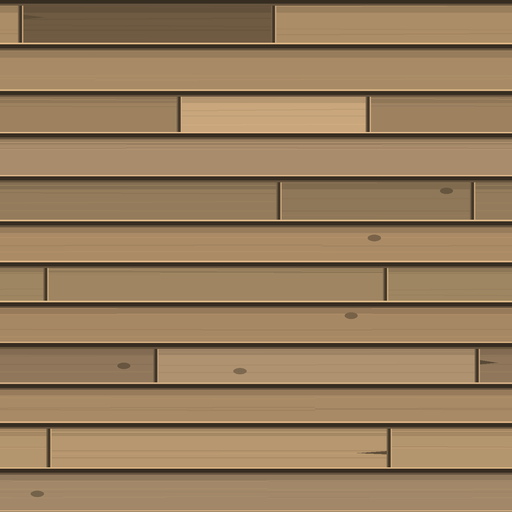
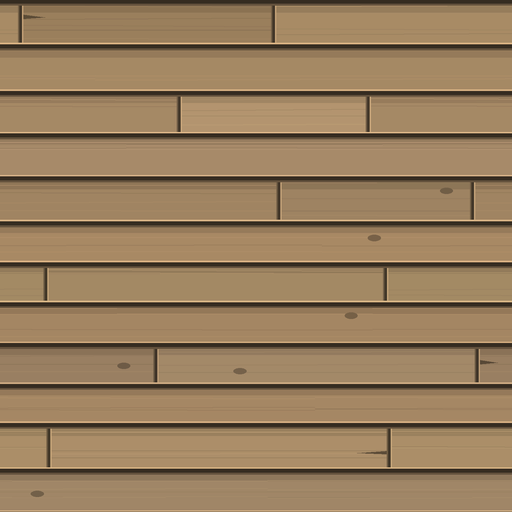
art: material.wall.wood's pieces shaded softer, so its one dark piece no longer repeats as a row of dashes every 2 m along every wood wall (the coordinator's go, 11-16, item (1) of art-kit's idle audit; C:/dev/review/ui-design/looks/stairlit_d07c8b5d9/room_2130_common_yaw180.png, the Mughouse's keep
art-gen's own procedural tile, remade by its own script (no hand of Jeff's in it: main's tile is byte for byte art-gen's board_tile.py output, 8e5e19239, both its commits sessions' work). C:/dev/review/wall_tile/board_tile2.py is that script with wall options whose defaults reproduce it (checked against the unedited copy): pspread=0.05 (the pieces within 5% of their course, was 15%), dark=0.9,0.92 (the one dark piece, was 0.6-0.66), lite=1.05 (was 1.16); every other course still in two pieces (every course cut read as stacked brick, what art-gen's tile replaced). The course edges are drawn before any of these, so every row and lap shadow sits on the same pixels (the lap rows' positions down the tile compared, equal): the plank rows still run level into the window and door frames (287 amended (1)). Still 2 m and 512 px: Client3D's walls map at WALL_TILE 2.0 whatever tile_m says, so a longer tile would have halved the boards. Mean matched to the 11-12 tile (150.3, 124.2, 92.2). Before/after (C:/dev/review/wall_tile/cands_gamescale.png): the dark and light dashes gone, the lapped boards kept.
[…]

Changed region(s): [[0.0312, 0.0, 0.5312, 0.0938]]

diff --git a/docs/art_status.md b/docs/art_status.md
@@ -251,7 +251,7 @@ Drawn as a grey box (a texture slot: terrain's procedural colour).
 | `material.wall.dark` | 1 | art-kit, by hand | own | 2026-10-24 |
 | `material.wall.stone` | 1 | art-gen, re-graded by art-kit | own | 2026-10-19 |
 | `material.wall.thicket` | 1 | art-kit, by hand | own | 2026-11-05 |
-| `material.wall.wood` | 1 | art-gen, procedural (no model) | own | 2026-11-12 |
+| `material.wall.wood` | 1 | art-gen, procedural (no model) | own | 2026-11-16 |
 | `mine.arch_3` | 1 | art-kit, by hand | own | 2026-11-02 |
 | `mine.arch_4` | 1 | art-kit, by hand | own | 2026-11-02 |
 | `mine.arch_5` | 1 | art-kit, by hand | own | 2026-11-02 |
